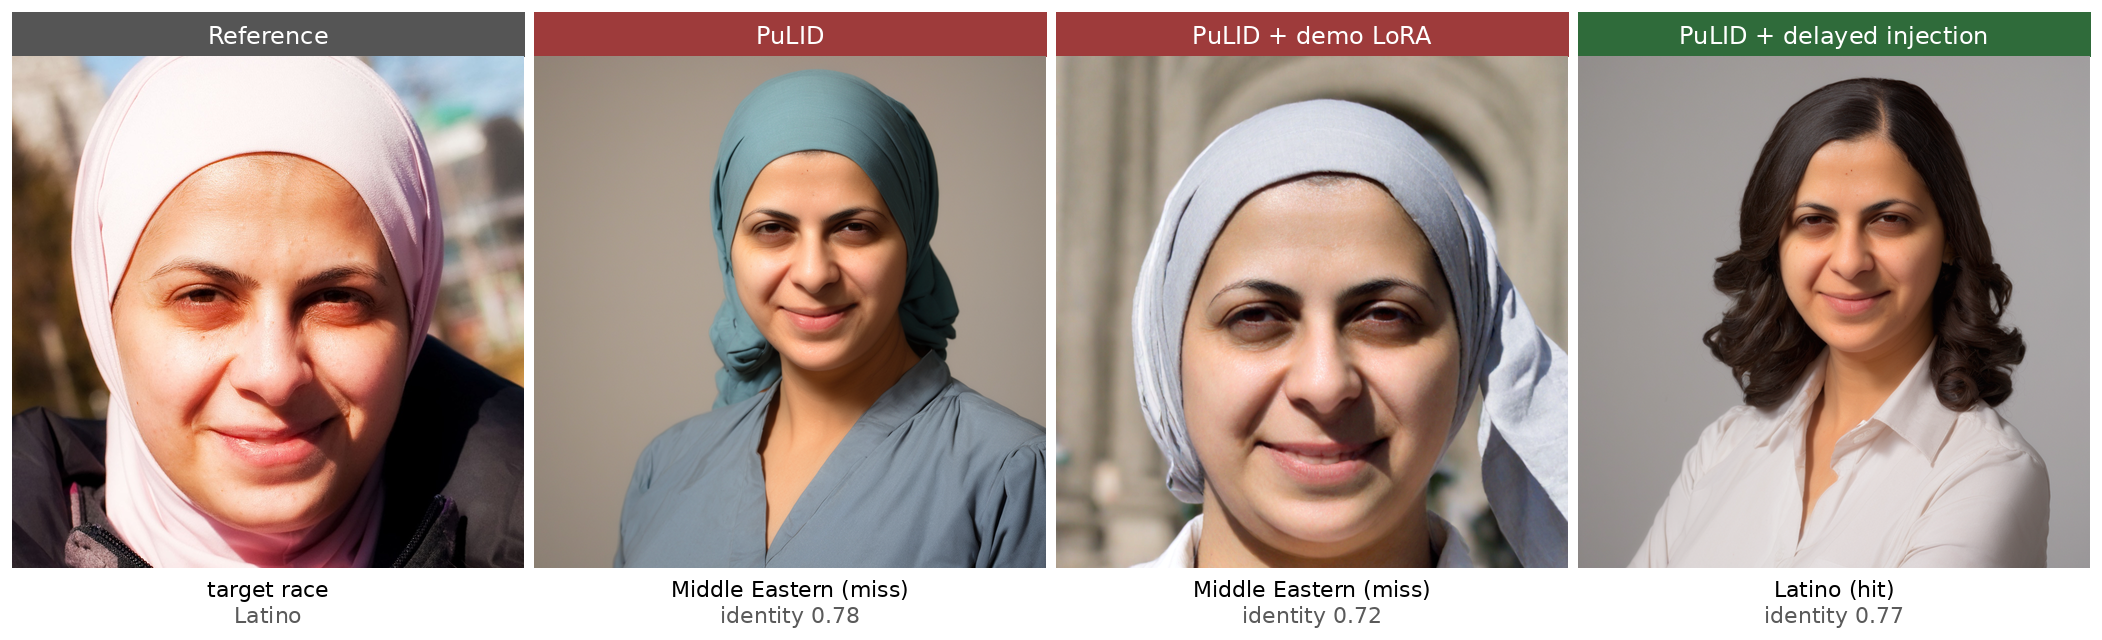
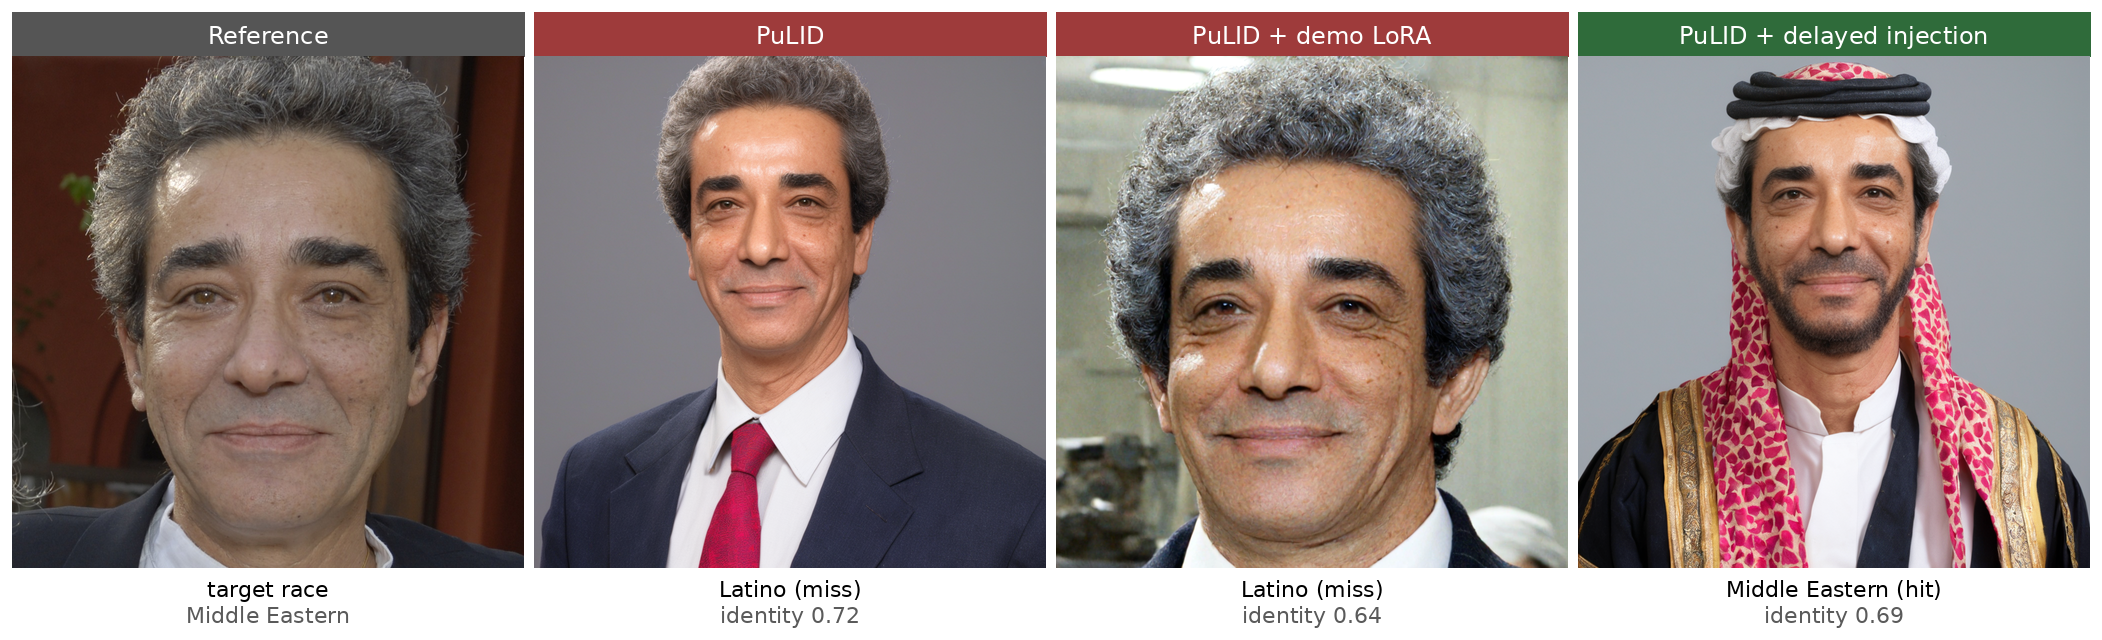
Use a different identity for the qualitative rescue figure

diff --git a/scripts/make_rescue_figure.py b/scripts/make_rescue_figure.py
@@ -20,6 +20,7 @@ METHODS = ["pulid_only", "pulid_with_demo_lora", "pulid_delayed"]
 LABELS = {"pulid_only": "PuLID", "pulid_with_demo_lora": "PuLID + demo LoRA",
           "pulid_delayed": "PuLID + delayed injection"}
 GEN = BENCHMARK_DIR / "generations"
+EXCLUDE_IDS = {"id_006"}  # id_006 (Latino) is shown elsewhere; pick the next-best identity
 PANEL, GAP, LABEL_H, SCORE_H, MARGIN = 512, 10, 44, 60, 12
 GRAY, RED, GREEN = (85, 85, 85), (158, 59, 59), (47, 107, 58)
 
@@ -36,7 +37,7 @@ def load():
 def select_cell(base, ada):
     cells = defaultdict(lambda: defaultdict(dict))
     for r in base:
-        if r["category"] == "race" and r["method"] in METHODS:
+        if r["category"] == "race" and r["method"] in METHODS and r["id"] not in EXCLUDE_IDS:
             cells[(r["id"], r["prompt_key"], r["race_requested"])][r["method"]][r["seed"]] = {
                 "match": r["race_match"], "pred": r["race_pred"], "ada": ada.get(r["path"]),
             }
@@ -52,7 +53,7 @@ def select_cell(base, ada):
                  and md["pulid_with_demo_lora"][s]["match"] == 0
                  and md["pulid_delayed"][s]["match"] == 1]
         if not (race["pulid_only"] <= 0.4 and race["pulid_with_demo_lora"] <= 0.4
-                and race["pulid_delayed"] >= 0.6 and min(idn.values()) >= 0.5 and clean):
+                and race["pulid_delayed"] >= 0.4 and min(idn.values()) >= 0.5 and clean):
             continue
         # representative shared seed: clean pattern, closest to per-method mean identity
         seed = min(clean, key=lambda s: sum(abs(md[m][s]["ada"] - idn[m]) for m in METHODS))

diff --git a/README.md b/README.md
@@ -30,9 +30,9 @@ all on SDXL 1.0 + the fp16-fix VAE (HyperLoRA on RealVisXL — see note):
 | HyperLoRA (RealVisXL) | 0.56 | **0.39** | 13.6 | 0.80 | **0.58** | 36.7 |
 
 **Qualitative example** (the cell with the largest rescue gain, selected from the
-scores). Same reference and prompt `depicted as Latino`: PuLID and PuLID + demographic
-LoRA both miss the target (rendered Middle Eastern); only delayed injection recovers
-Latino, while AdaFace identity stays ~0.77 across all three.
+scores). Same reference and prompt `depicted as Middle Eastern`: PuLID and PuLID +
+demographic LoRA both miss the target (rendered Latino); only delayed injection
+recovers Middle Eastern, while AdaFace identity stays high across all three (~0.7).
 
 ![Delayed-injection rescue: PuLID and PuLID + demographic LoRA miss the requested race; delayed injection recovers it at preserved identity](results/figures/qualitative_rescue.png)
 